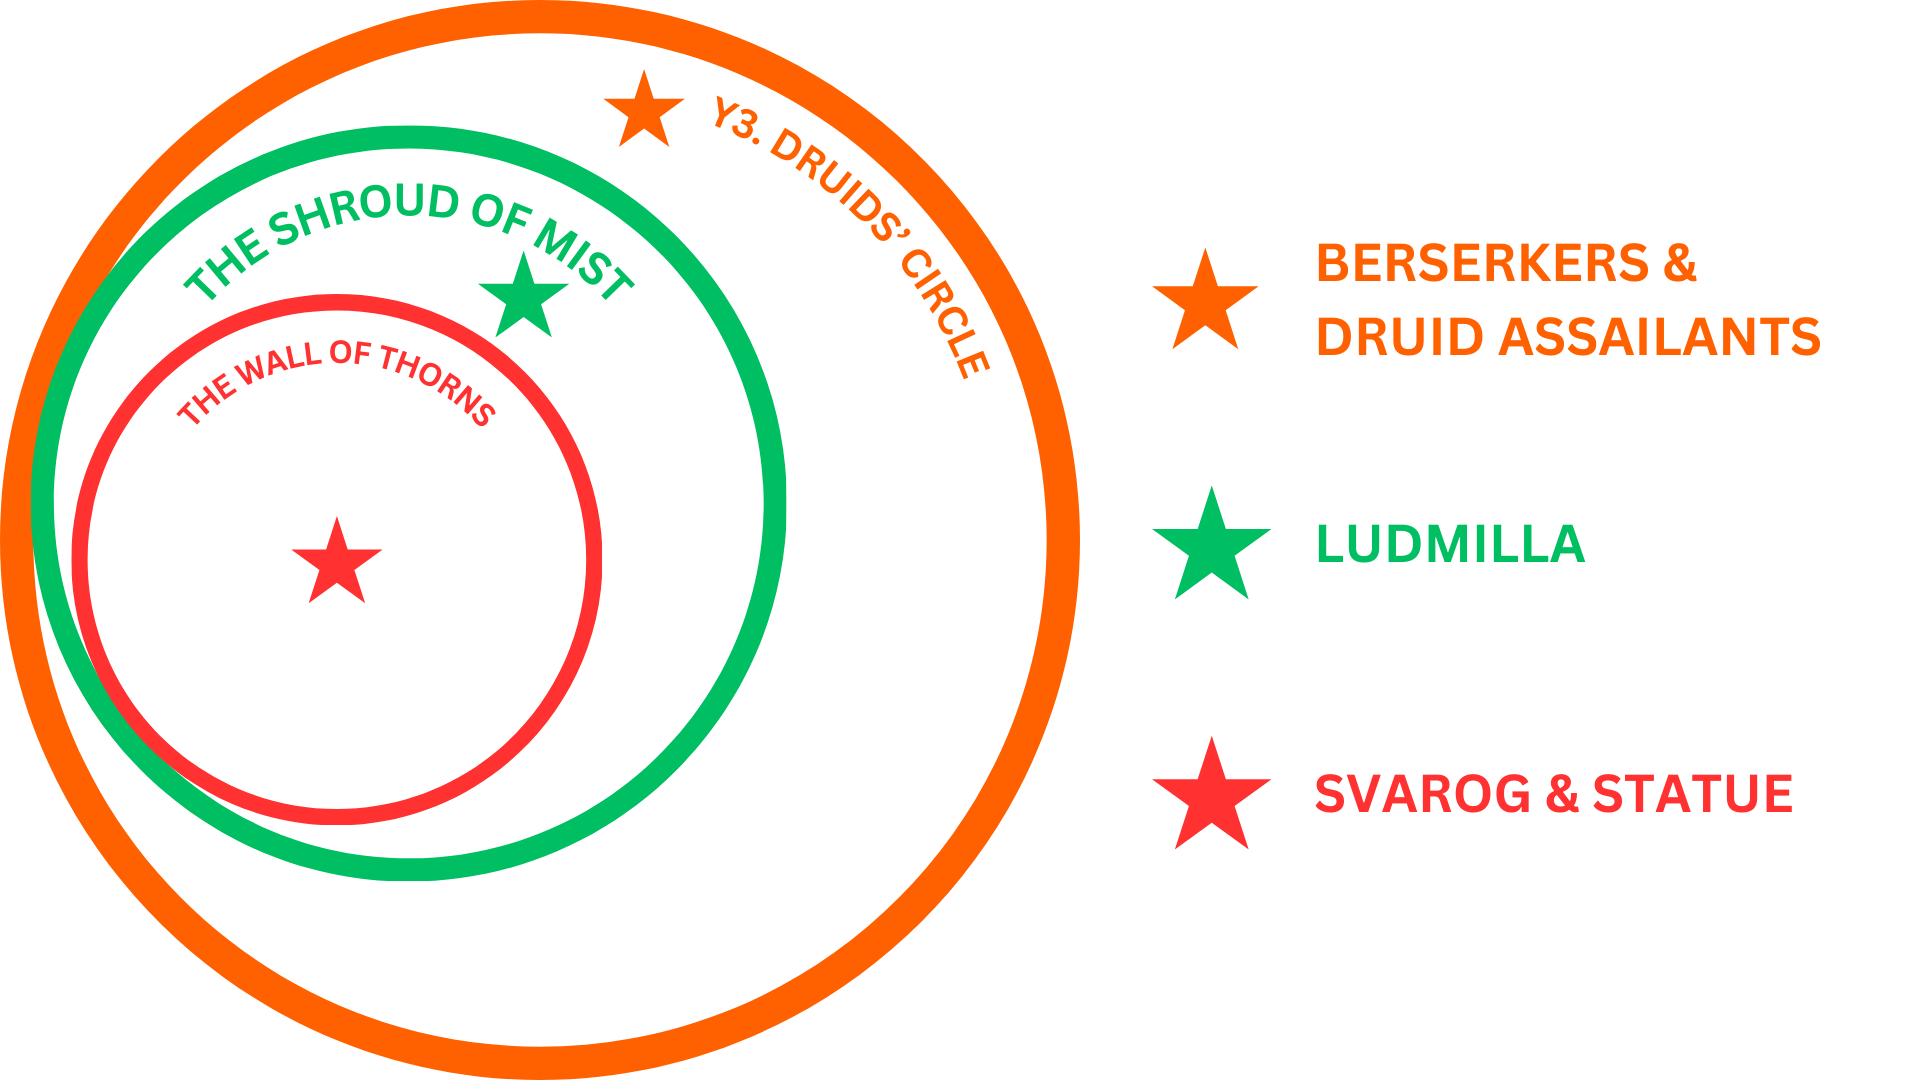
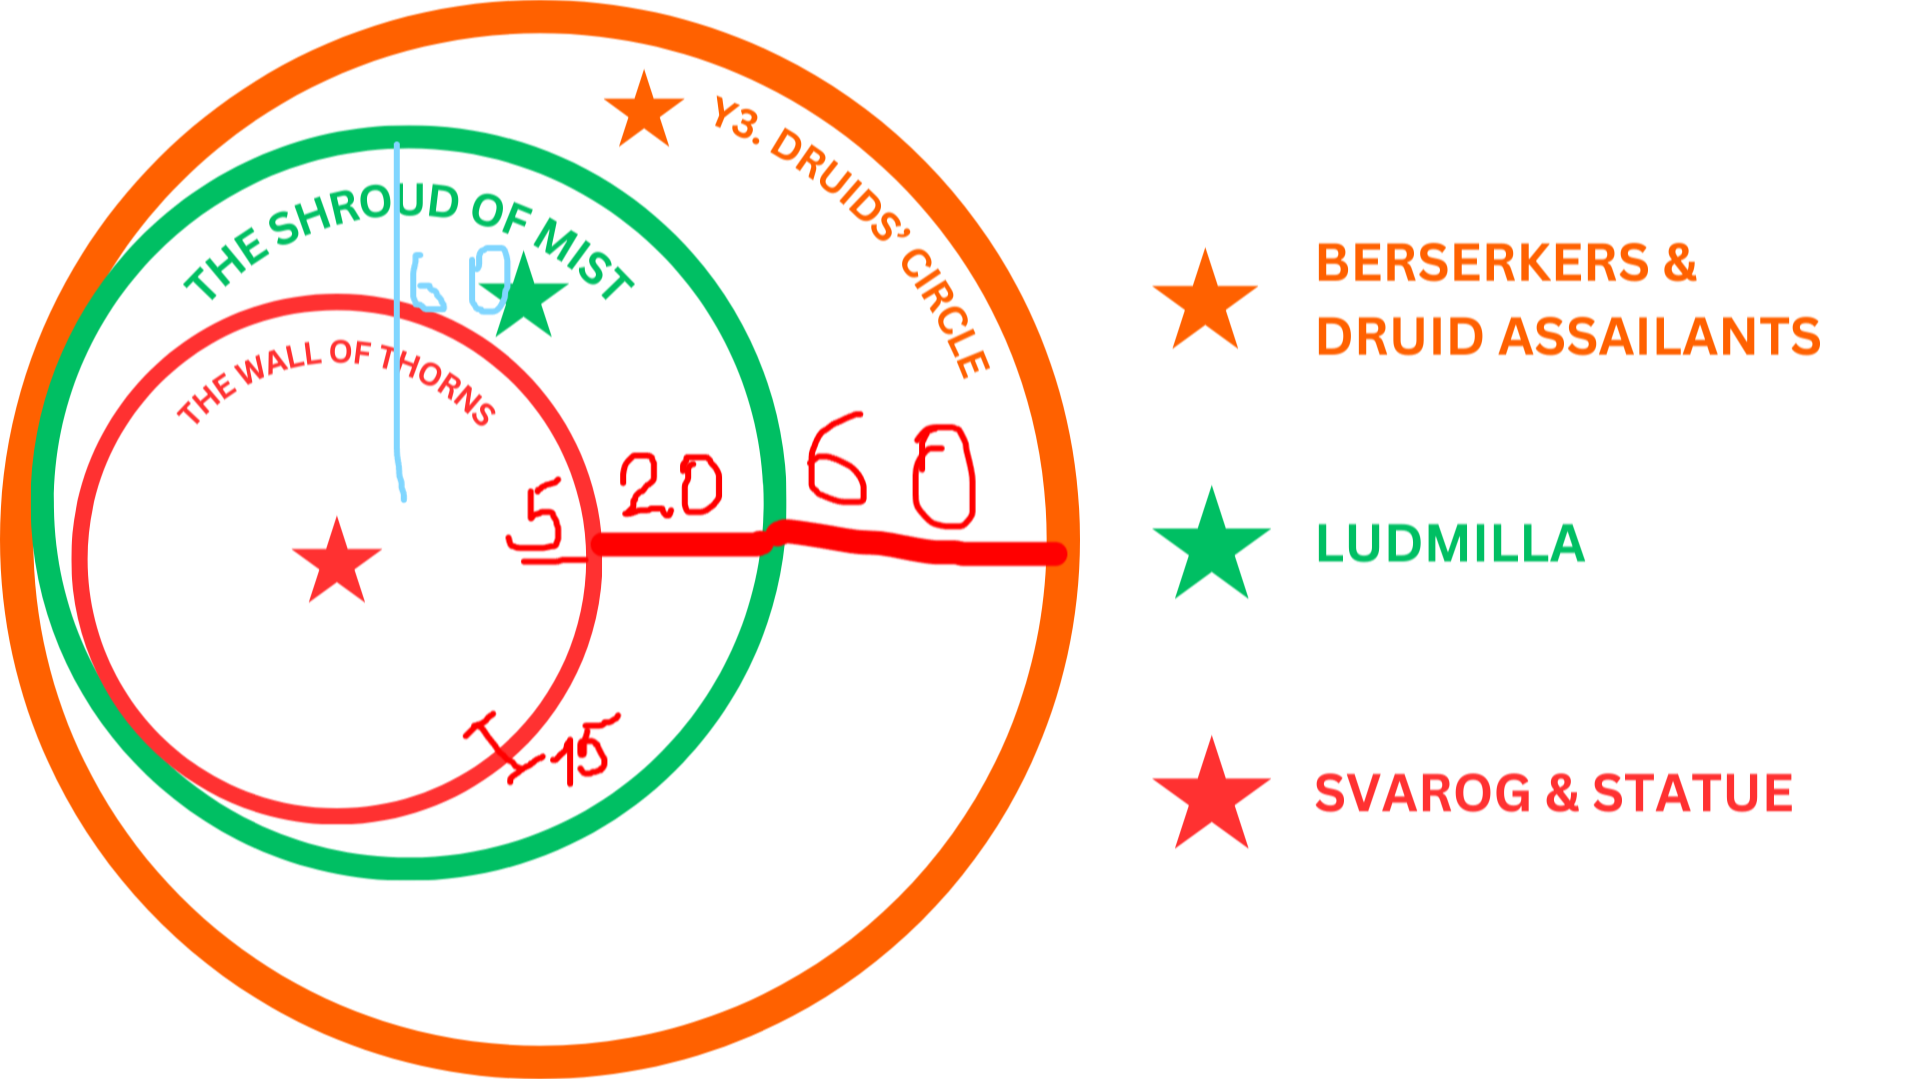
Арка J WIP

Changed region(s): [[0.25, 0.367, 0.5625, 0.5505], [0.1875, 0.1223, 0.2812, 0.4588], [0.25, 0.6728, 0.3125, 0.734]]

diff --git a/Сюжет/Проклятье Страда/Акт III - Сломленная земля/Арка J - Похищенный самоцвет.md b/Сюжет/Проклятье Страда/Акт III - Сломленная земля/Арка J - Похищенный самоцвет.md
@@ -1090,19 +1090,22 @@ _**Веха.**_ Освобождение винодельни считается
 
 ## J5e. Баррикада Людмилы
 
-Once the players bypass or defeat the druids and berserkers guarding the entrance to the circle, Ludmilla and her allies create two barriers to obstruct them: a shroud of mist, followed by a wall of roots.
+Как только игроки обходят или побеждают друидов и берсерка, охраняющих вход в круг, Людмила и её союзники создают 2 барьера, чтобы их задержать: **покров тумана**, а затем **стену корней**
 
-### The Shroud of Mist
-This hollow cylinder of gray fog has a radius of 60 feet and is 150 feet high, with its opaque, six-inch-thick, "curtain"-like edges obscuring its interior, which is filled and lightly obscured by faint, harmless mist. The cylinder lasts for 10 minutes, or until Ludmilla dismisses it as a bonus action. (Maintaining the shroud doesn't require Ludmilla's concentration.) 
- 
-A non-undead creature that comes into contact with the mist for the first time on a turn must succeed on a DC 15 Constitution saving throw or take 10 (3d6) necrotic damage and be slowed until the start of its next turn. (It must spend 1 extra foot of movement for every foot it moves using its speed, attack rolls against it have advantage, and it has disadvantage on Dexterity saving throws.)
+### Покров тумана
 
-> [!info]+ **Laying Out the Battlefield**
-> Once the players move through the ring of mist, the structure of the battlefield is as follows:
+Этот полый цилиндр серого тумана имеет **радиус 60 футов** и **высоту 150 футов**, а его непрозрачные «занавесообразные» края **толщиной 15 см** скрывают внутреннюю часть, которая заполнена лёгким безвредным туманом и является [[ДМовские заметки#Заслонённая область|слегка заслонённой]]. Цилиндр длится **10 минут** или до тех пор, пока Людмила не рассеет его **бонусным действием**. (Поддержание покрова не требует концентрации Людмилы)
+
+Существо, не являющееся нежитью, которое впервые в ход соприкасается с туманом, должно преуспеть в **спасброске Телосложения Сл 15** или получить **3к6 некротического урона** и стать [[ДМовские заметки#Замедление|замедленным]] **до начала своего следующего хода**
+
+> [!info]+ **Поле боя**
+> Как только игроки проходят через кольцо тумана, структура поля боя выглядит следующим образом:
 > 
-> * The Huge statue of Strahd stands at the center of the ring.
-> * Twelve **druid naturalists** encircle the statue, with each druid standing 10 feet from the statue. Svarog, a thirteenth **druid naturalist**, stands between them.
-> * The fifteen-foot-thick wall of roots surrounds the circle of druids, with the wall’s inner edge five feet away from the druids.
+> - Огромная статуя Страда стоит в центре круга
+> - **12 друидов-натуралистов** окружают статую, каждый из которых стоит в **10 футах** от статуи. Сварог, **тринадцатый друид-натуралист**, стоит между ними
+> - стена корней **толщиной 15 футов** окружает круг друидов, при этом внутренняя кромка стены находится в **5 футах** от друидов
+> - Тонкое кольцо тумана Людмилы начинается в **20 футах** от внешнего края стены корней
+> 
 > * Ludmilla’s thin ring of mist begins twenty feet away from the outer edge of the wall of roots.
 > * Ludmilla remains above the wall of roots and within the circle enclosed by the ring of mist.
 ### The Wall of Roots
